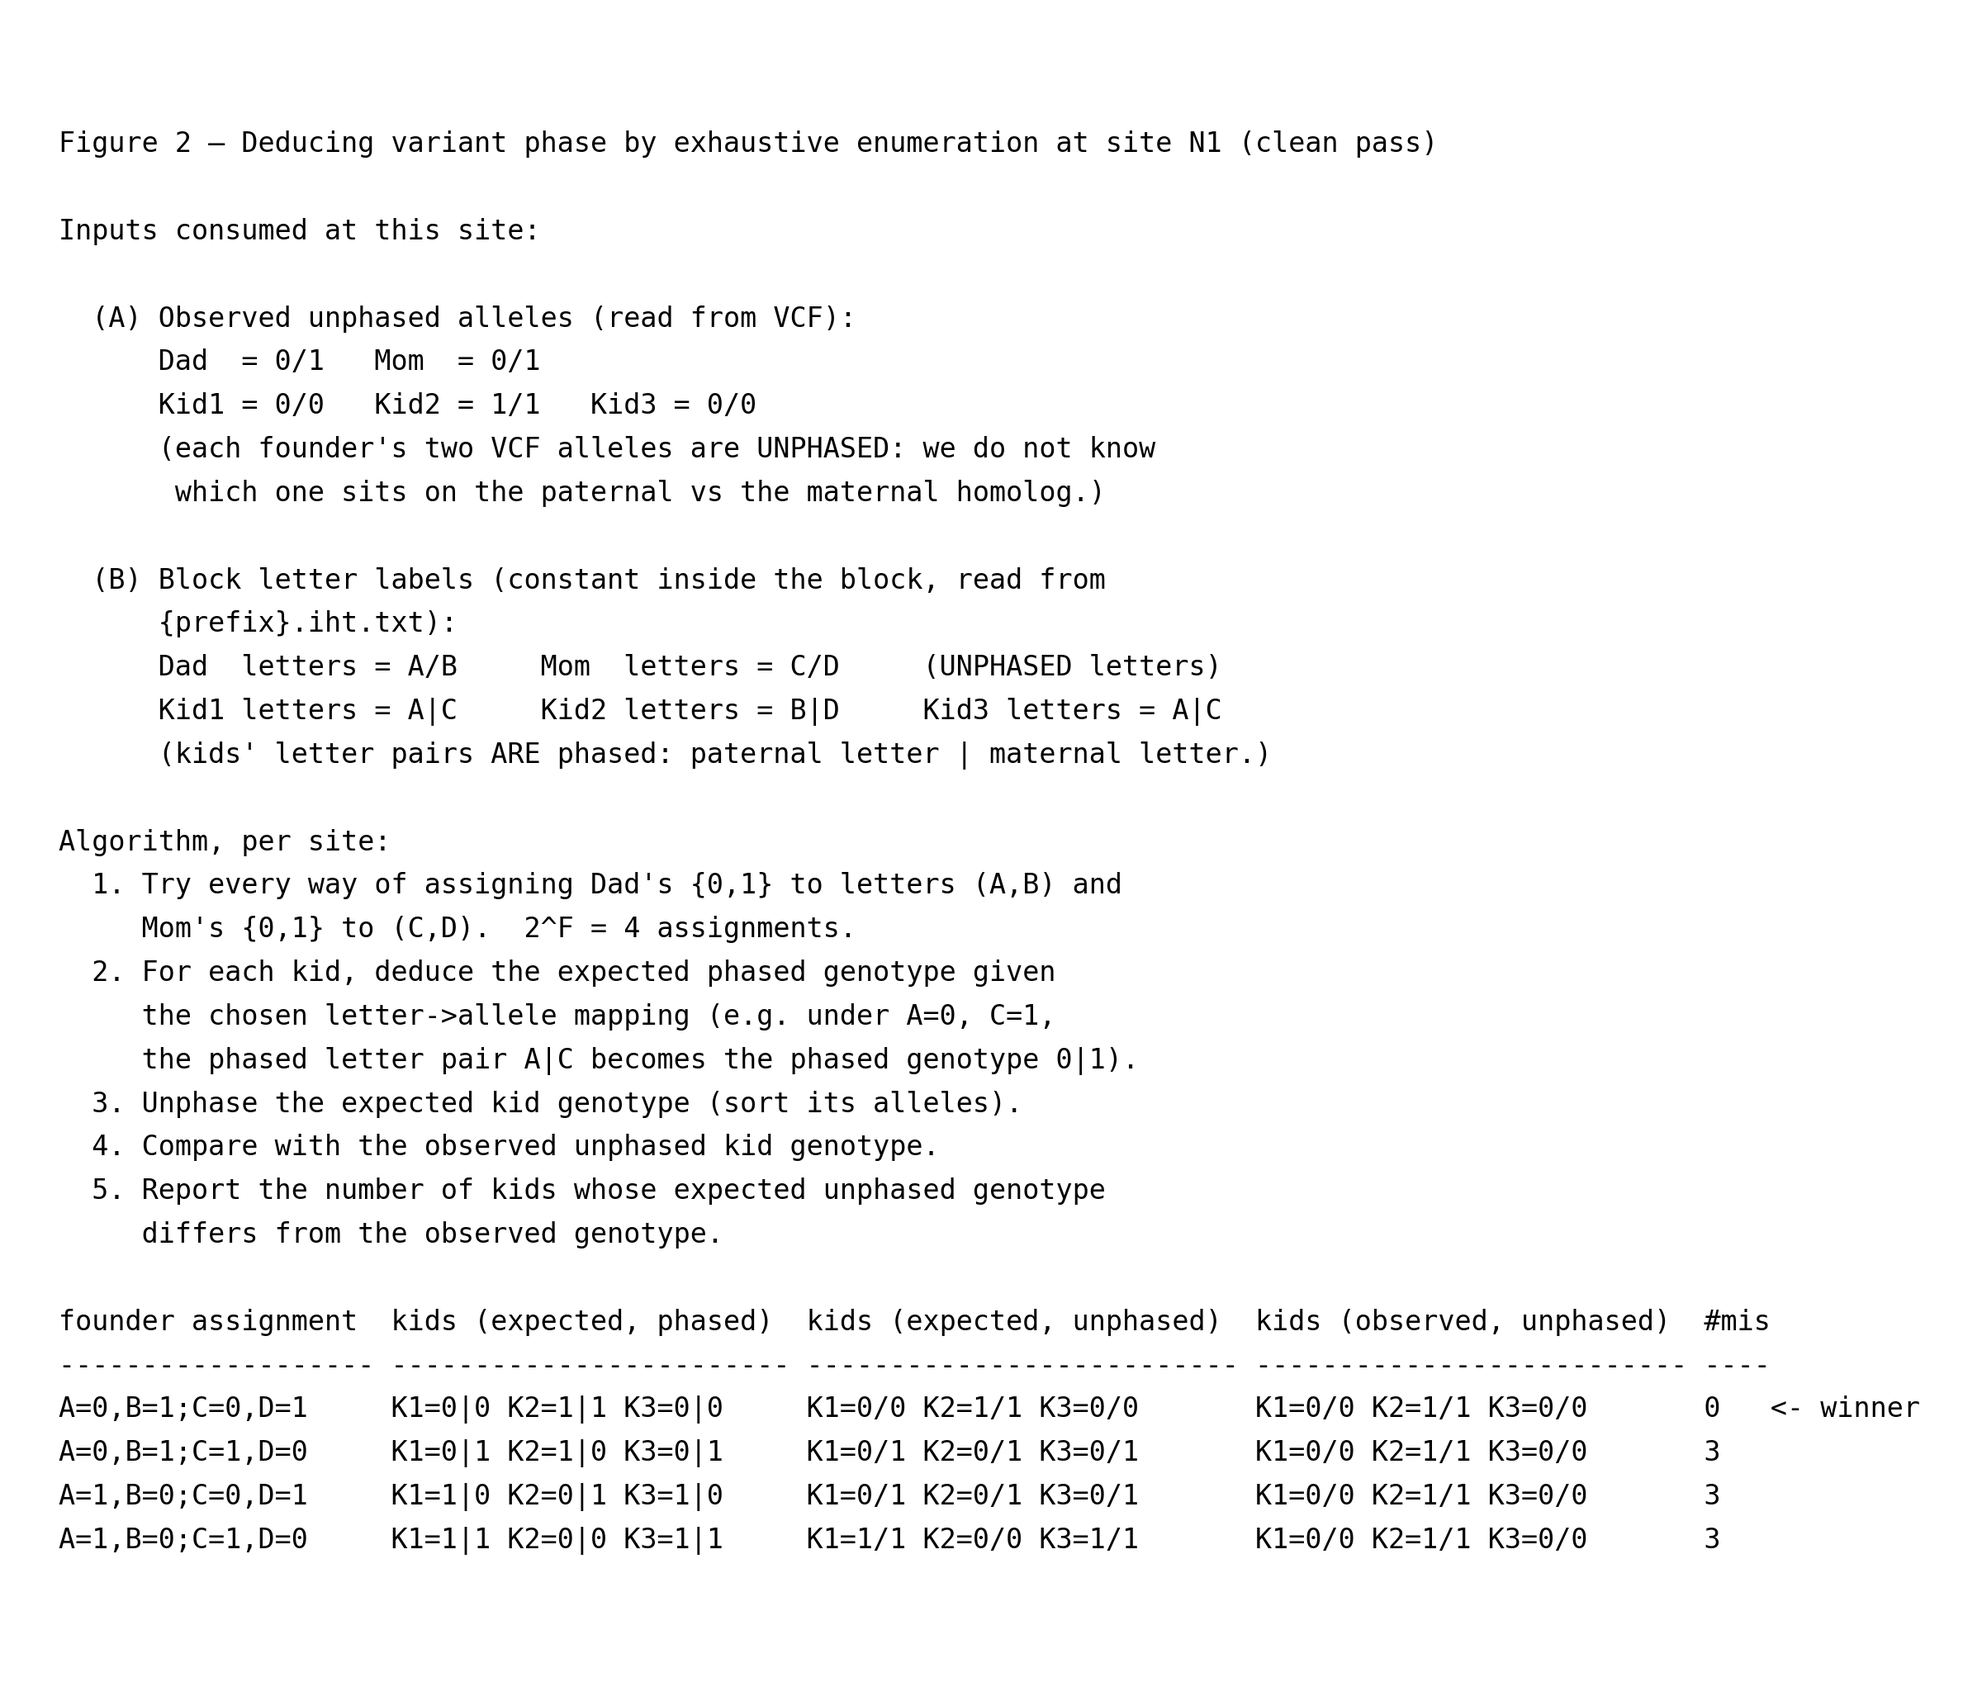
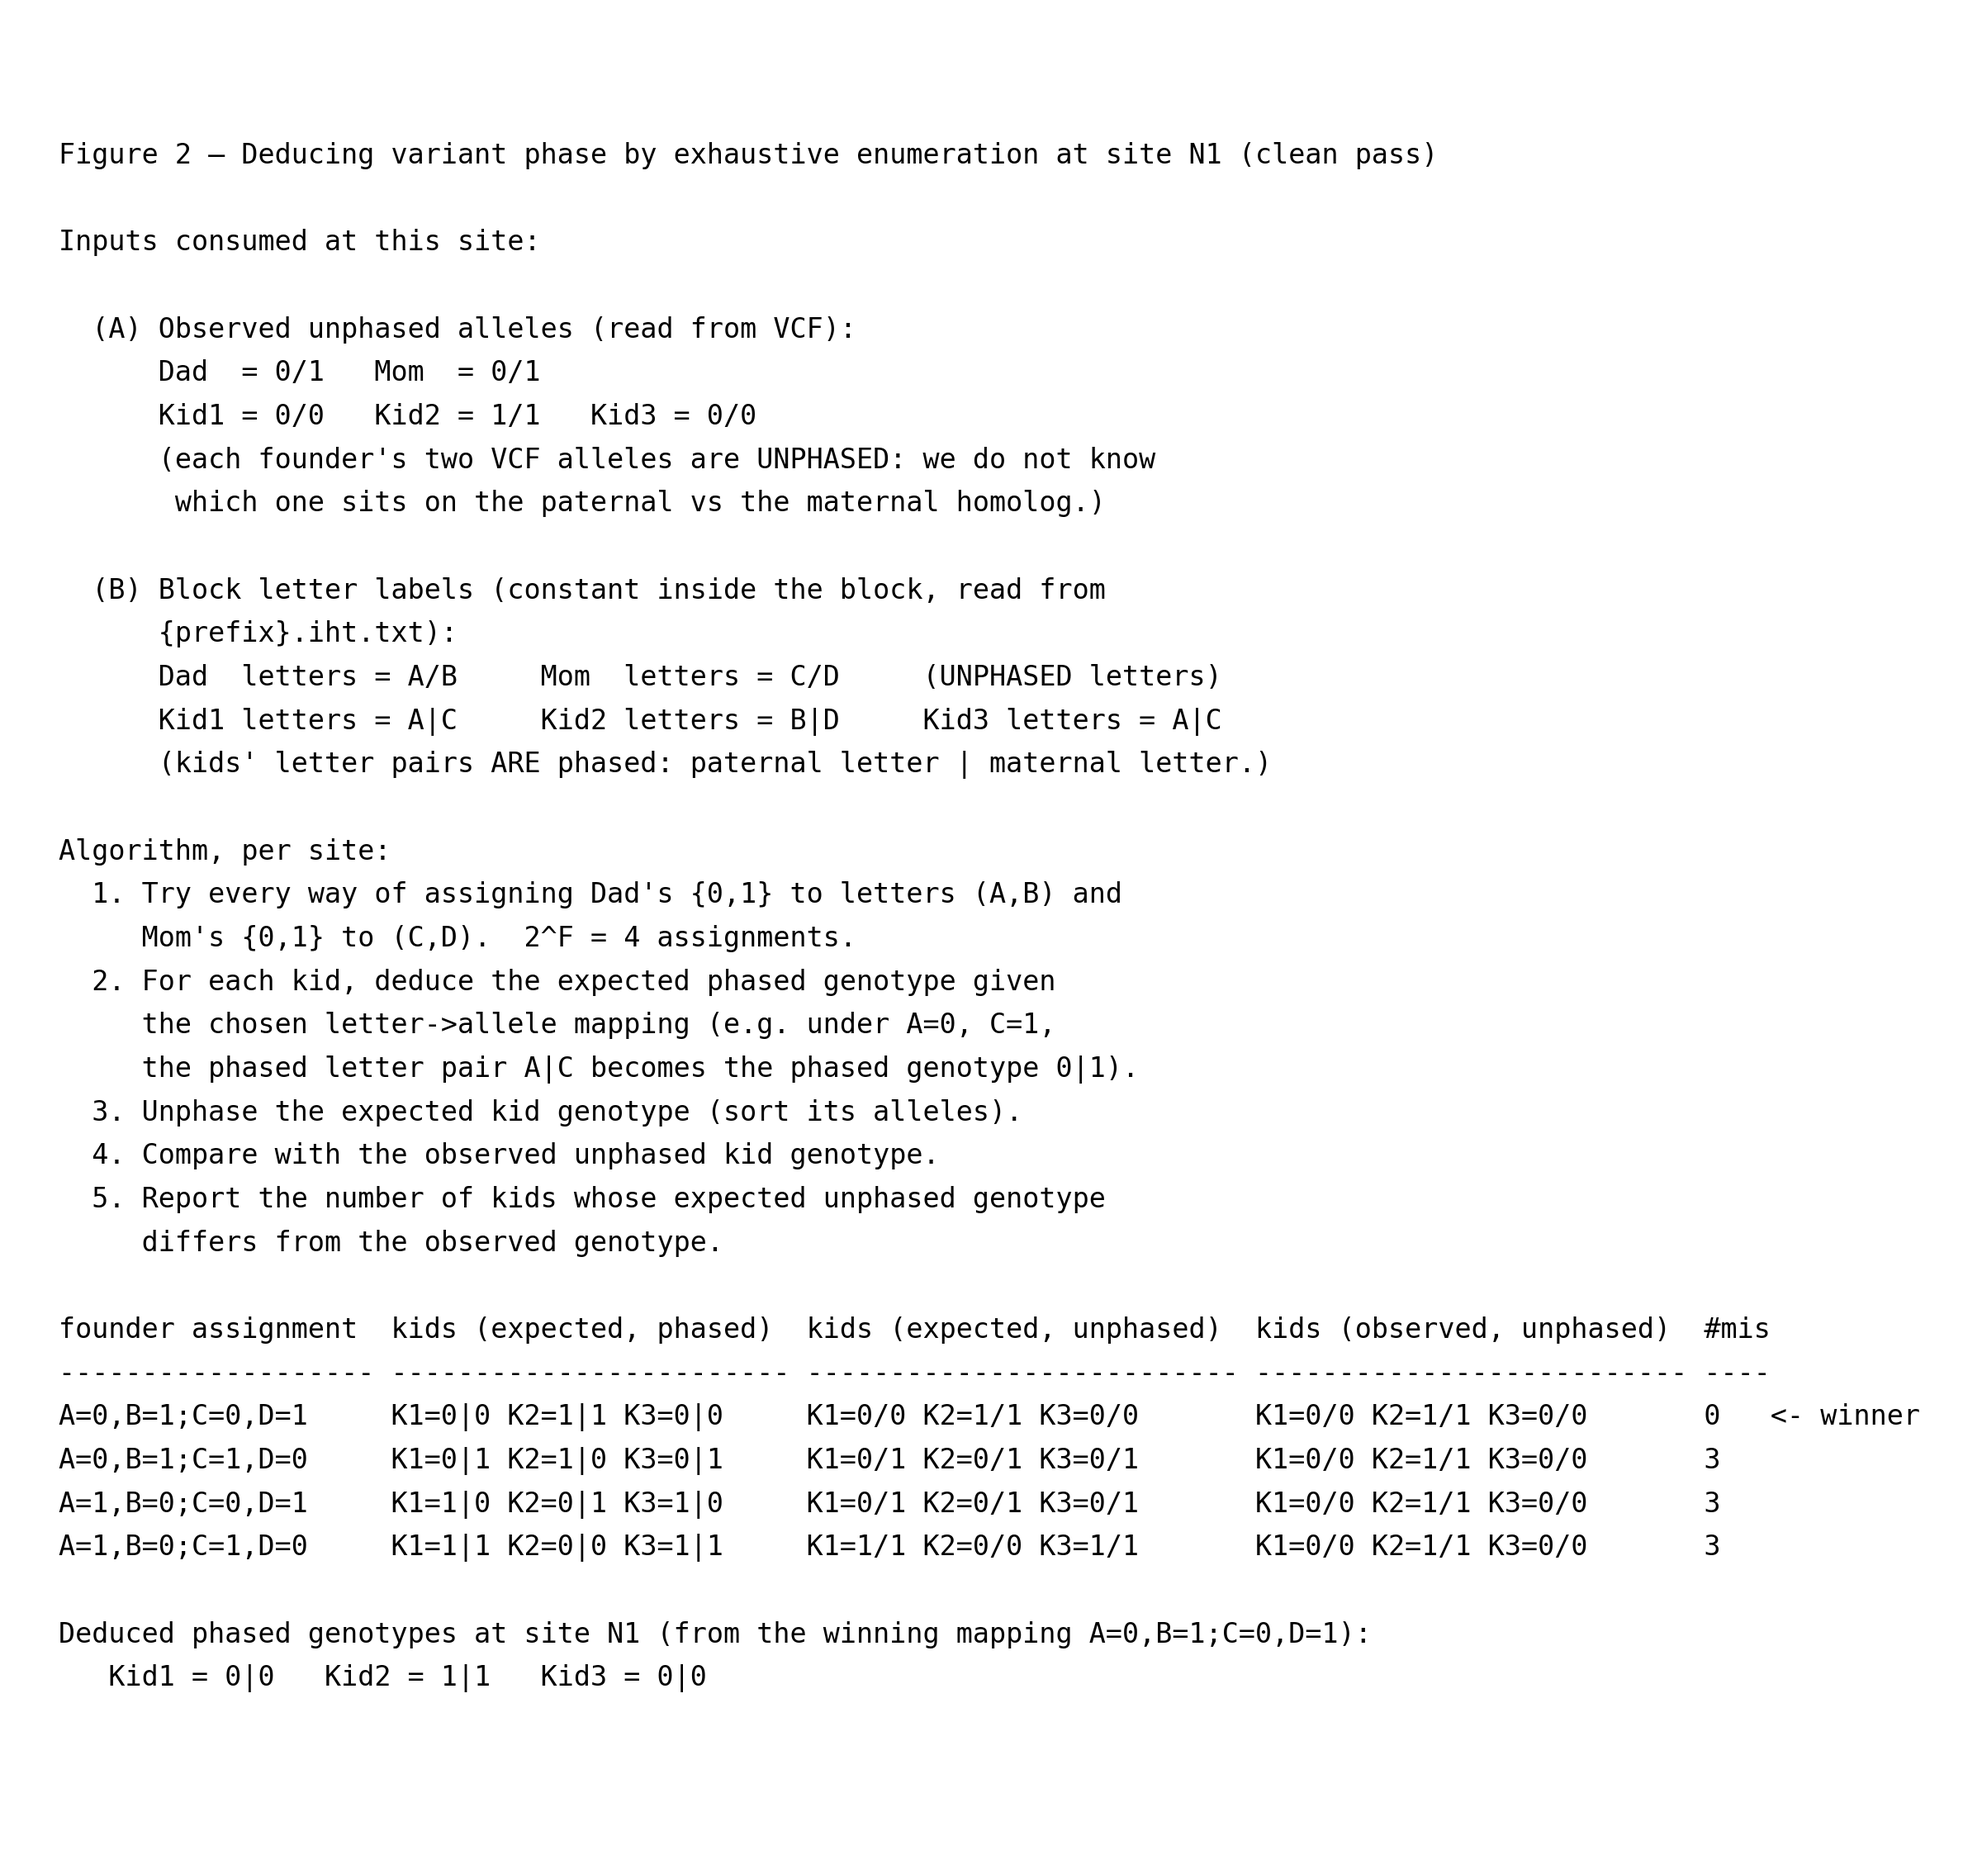
Declare deduced phased genotypes at the bottom of Fig 2
Append a summary line naming the winning mapping and listing each
kid's deduced phased p|m genotype, so the figure ends with the
answer rather than the per-mapping comparison table.

diff --git a/wiki/generate_wiki.py b/wiki/generate_wiki.py
@@ -2749,8 +2749,11 @@ def component_3_concordance(out_dir: Path) -> None:
         )
         rows_2.append(((a_A, a_B, a_C, a_D), assignment, phased, expected_unphased, nmis))
     rows_2.sort(key=lambda r: r[0])
+    winning_assignment = ""
     for _, assignment, phased, expected_unphased, nmis in rows_2:
         star = "   <- winner" if nmis == 0 else ""
+        if nmis == 0:
+            winning_assignment = assignment
         body_2.append(
             _cols(
                 [assignment, phased, expected_unphased, observed_unphased, str(nmis)],
@@ -2758,6 +2761,15 @@ def component_3_concordance(out_dir: Path) -> None:
                 star,
             )
         )
+    best_exp = s1["best"][2]
+    body_2 += [
+        "",
+        f"Deduced phased genotypes at site {s1['label']} "
+        f"(from the winning mapping {winning_assignment}):",
+        f"   Kid1 = {_fmt_phased(best_exp['Kid1'])}   "
+        f"Kid2 = {_fmt_phased(best_exp['Kid2'])}   "
+        f"Kid3 = {_fmt_phased(best_exp['Kid3'])}",
+    ]
     _render_panel_image(body_2, c_dir / "fig2.png")
 
     # ------------------------------------------------------------------
